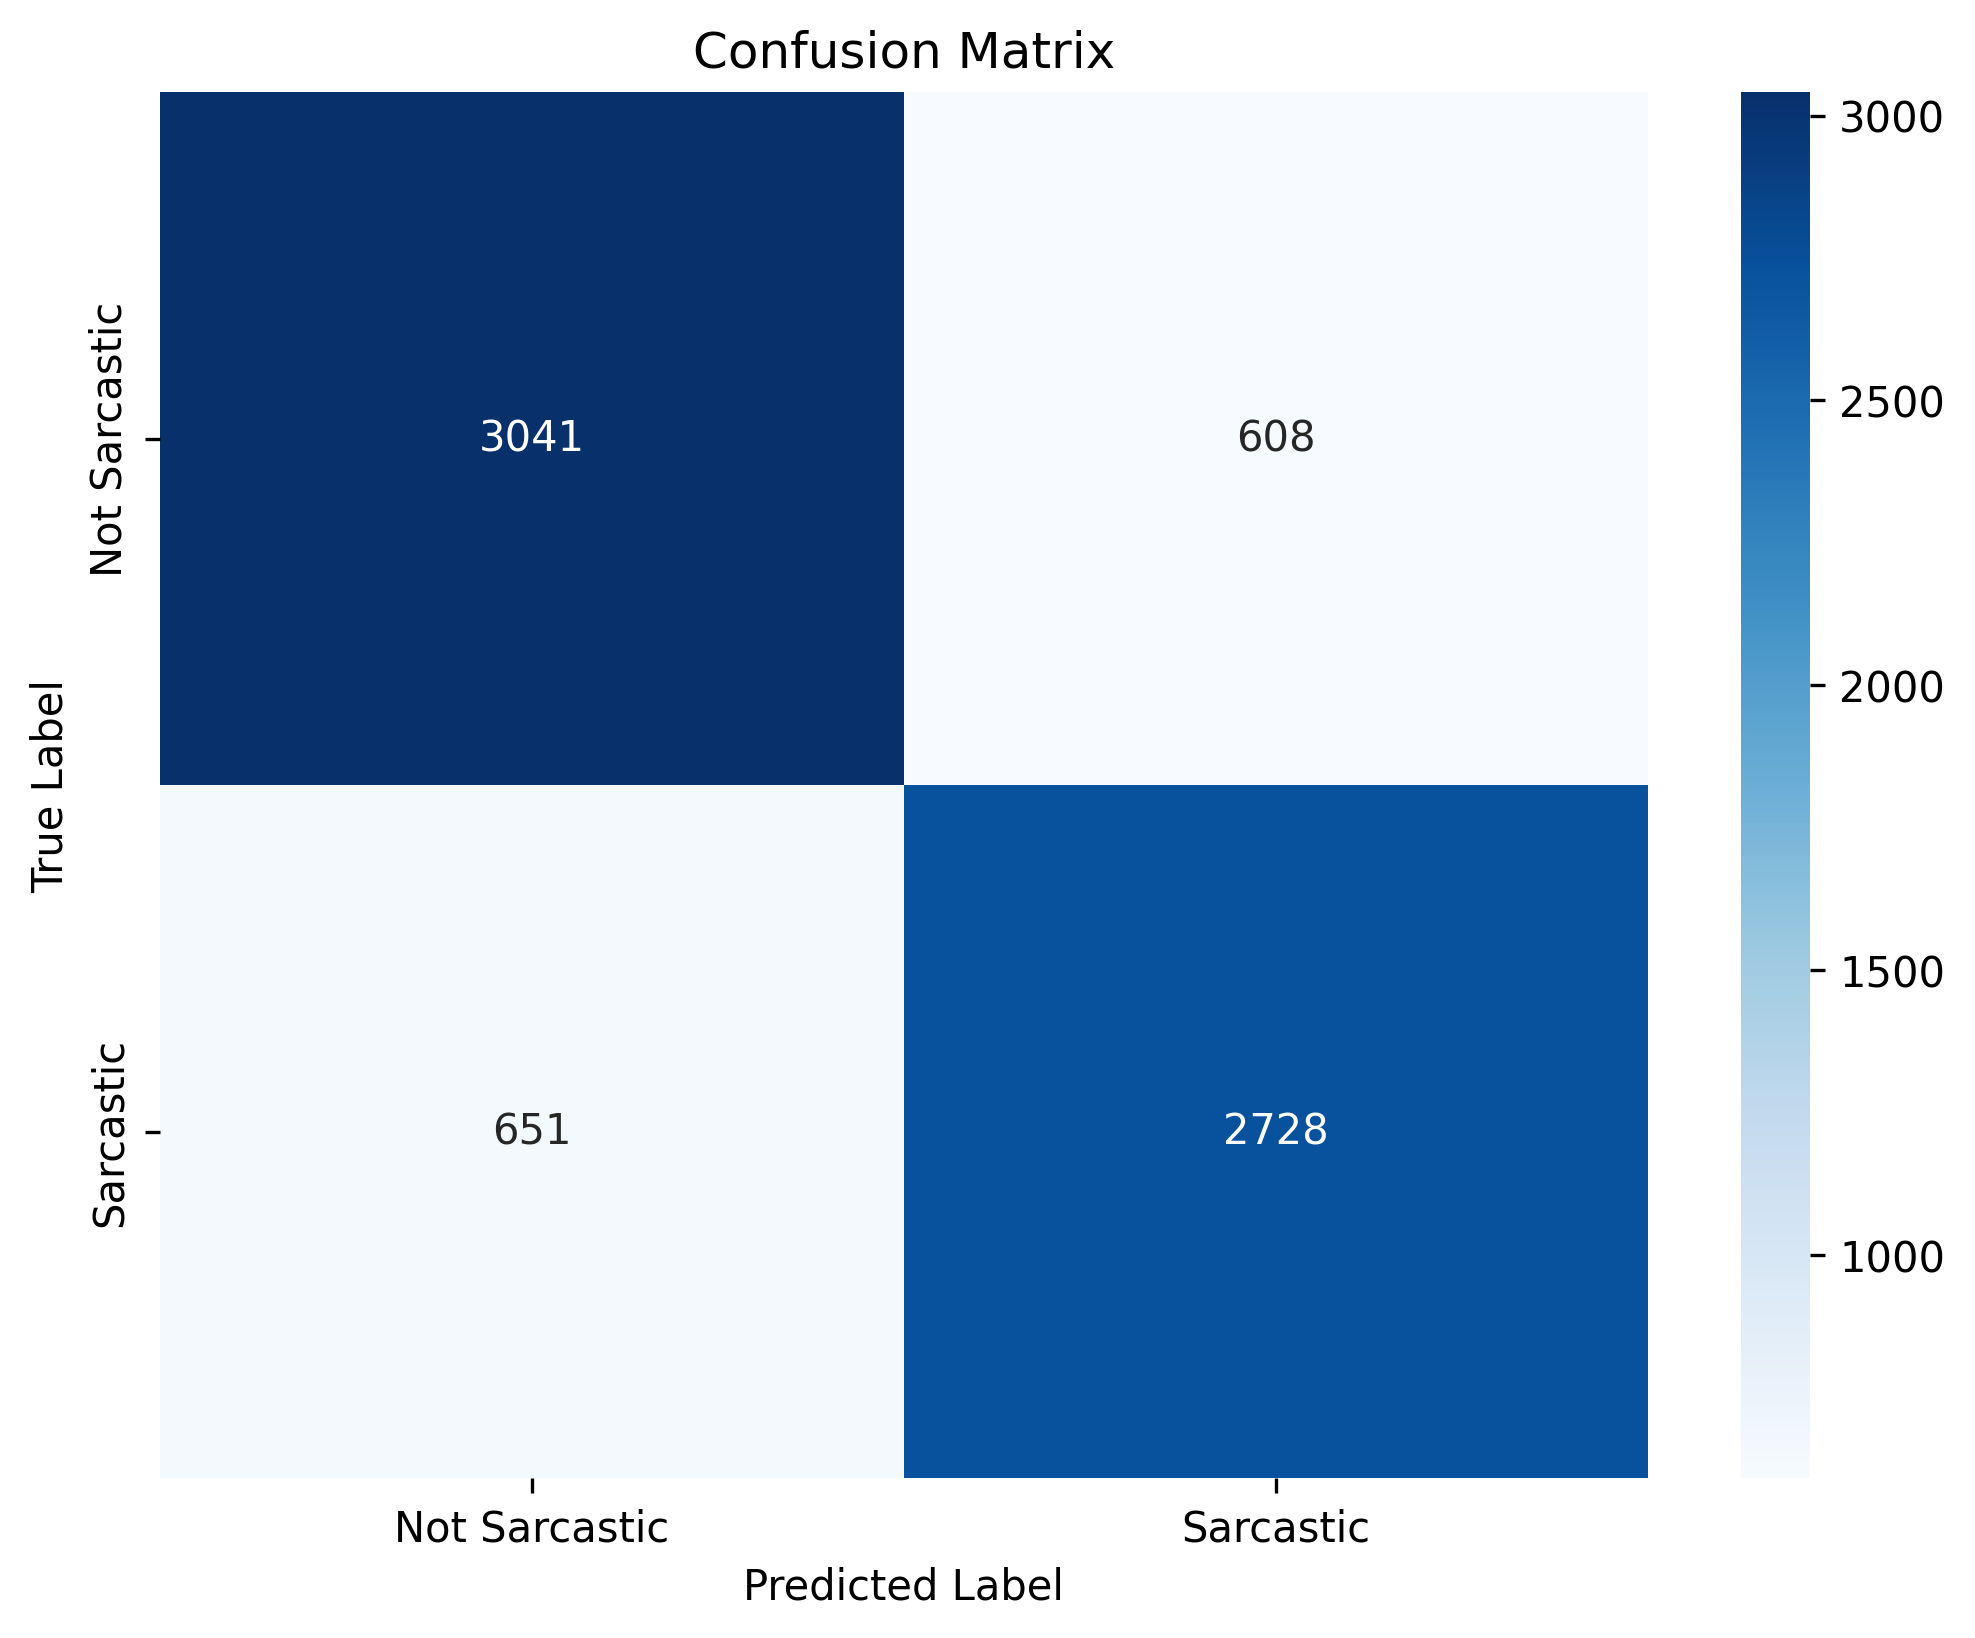
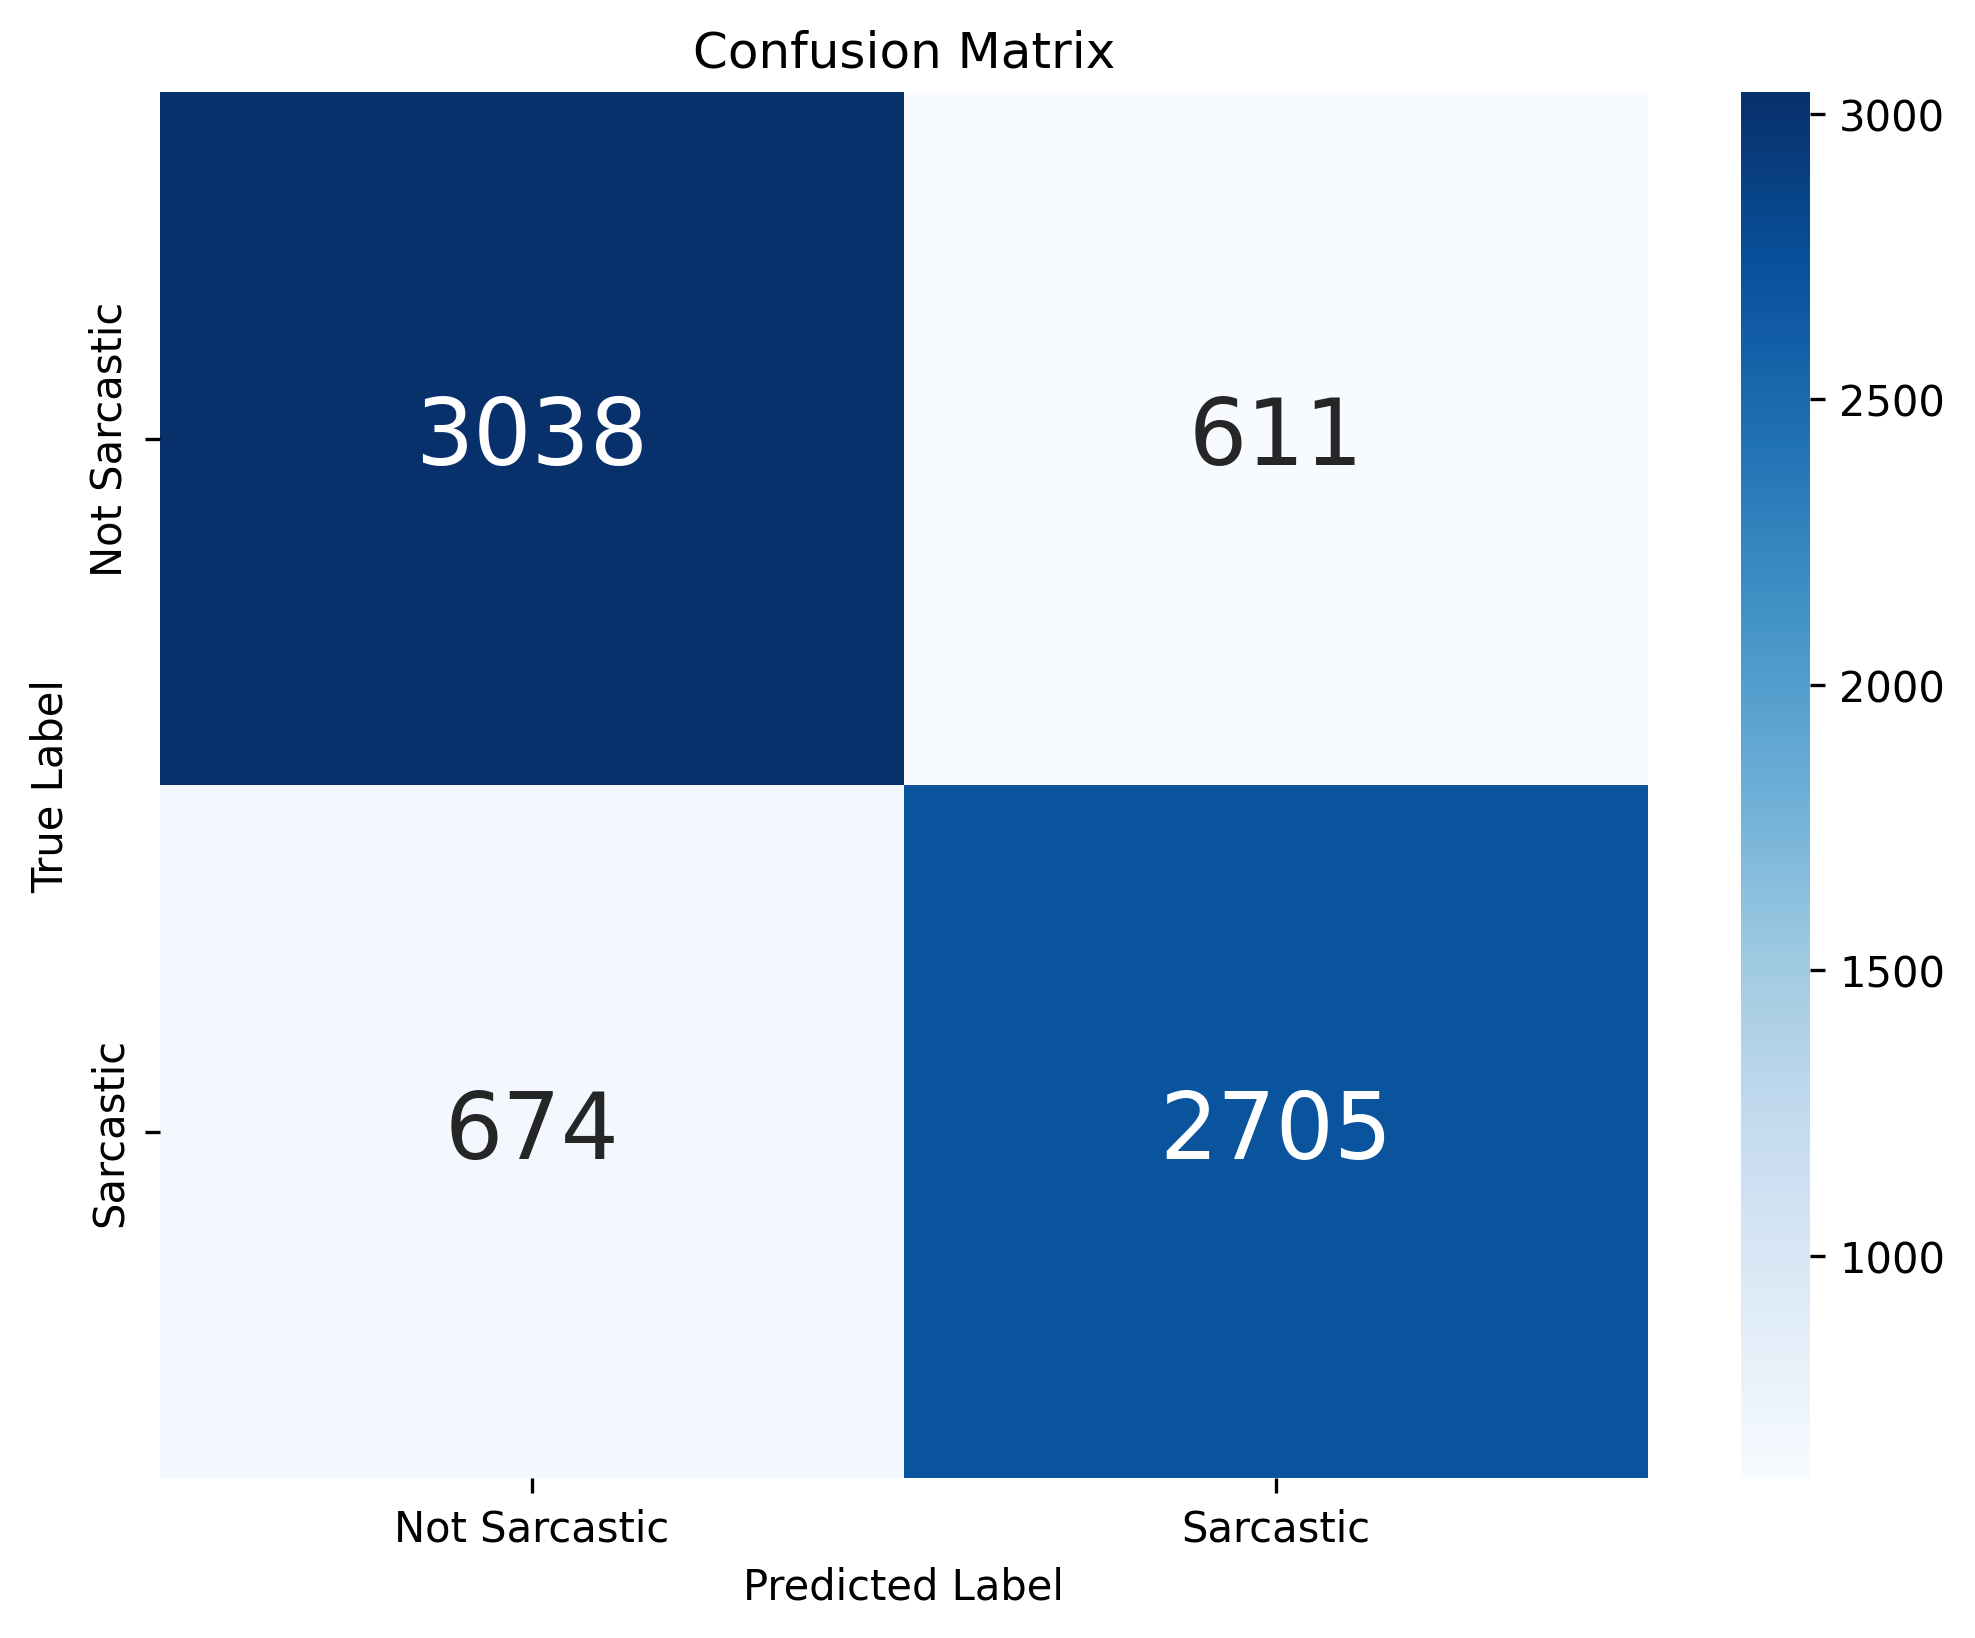
Changed Visuals

diff --git a/Bi-GRU/Bi-GRU.py b/Bi-GRU/Bi-GRU.py
@@ -19,7 +19,7 @@ VOCAB_SIZE = 12000
 EMBEDDING_DIM = 96
 BATCH_SIZE = 128
 EPOCHS = 40
-OUTPUT_DIR = "bigru_arcasm_outputs"
+OUTPUT_DIR = "sarcasm_outputs"
 
 # Create output directory
 os.makedirs(OUTPUT_DIR, exist_ok=True)
@@ -146,13 +146,18 @@ with open(report_path, 'w') as f:
 # Confusion Matrix
 plt.figure(figsize=(8, 6))
 cm = confusion_matrix(test_labels, y_pred)
-sns.heatmap(cm, annot=True, fmt='d', cmap='Blues',
-           xticklabels=['Not Sarcastic', 'Sarcastic'],
-           yticklabels=['Not Sarcastic', 'Sarcastic'])
-plt.title('Confusion Matrix')
-plt.ylabel('True Label')
-plt.xlabel('Predicted Label')
-plt.savefig(os.path.join(OUTPUT_DIR, 'confusion_matrix.png'), dpi=300, bbox_inches='tight')
+sns.heatmap(
+    cm, annot=True, fmt='d', cmap='Blues',
+    xticklabels=['Non-Sarcastic', 'Sarcastic'],
+    yticklabels=['Non-Sarcastic', 'Sarcastic'],
+    annot_kws={"size": 22} 
+)
+plt.title('Confusion Matrix', fontsize=16)
+plt.ylabel('True Label', fontsize=14)
+plt.xlabel('Predicted Label', fontsize=14)
+plt.xticks(fontsize=16)
+plt.yticks(fontsize=16)
+plt.savefig(os.path.join('sarcasm_outputs', 'confusion_matrix.png'), bbox_inches='tight')
 plt.close()
 
 print(f"\nAll outputs saved to: {os.path.abspath(OUTPUT_DIR)}")

diff --git a/Bi-LSTM/Bi-LSTM.py b/Bi-LSTM/Bi-LSTM.py
@@ -144,7 +144,8 @@ plt.figure(figsize=(8, 6))
 cm = confusion_matrix(test_labels, y_pred)
 sns.heatmap(cm, annot=True, fmt='d', cmap='Blues',
            xticklabels=['Not Sarcastic', 'Sarcastic'],
-           yticklabels=['Not Sarcastic', 'Sarcastic'])
+           yticklabels=['Not Sarcastic', 'Sarcastic'],
+           annot_kws={"size": 22})
 plt.title('Confusion Matrix')
 plt.ylabel('True Label')
 plt.xlabel('Predicted Label')

diff --git a/Quantum-LSTM/qlstm.py b/Quantum-LSTM/qlstm.py
@@ -153,7 +153,8 @@ plt.figure(figsize=(8, 6))
 cm = confusion_matrix(test_labels, y_pred)
 sns.heatmap(cm, annot=True, fmt='d', cmap='Blues',
            xticklabels=['Not Sarcastic', 'Sarcastic'],
-           yticklabels=['Not Sarcastic', 'Sarcastic'])
+           yticklabels=['Not Sarcastic', 'Sarcastic'],
+           annot_kws={"size": 22})
 plt.title('Confusion Matrix')
 plt.ylabel('True Label')
 plt.xlabel('Predicted Label')
